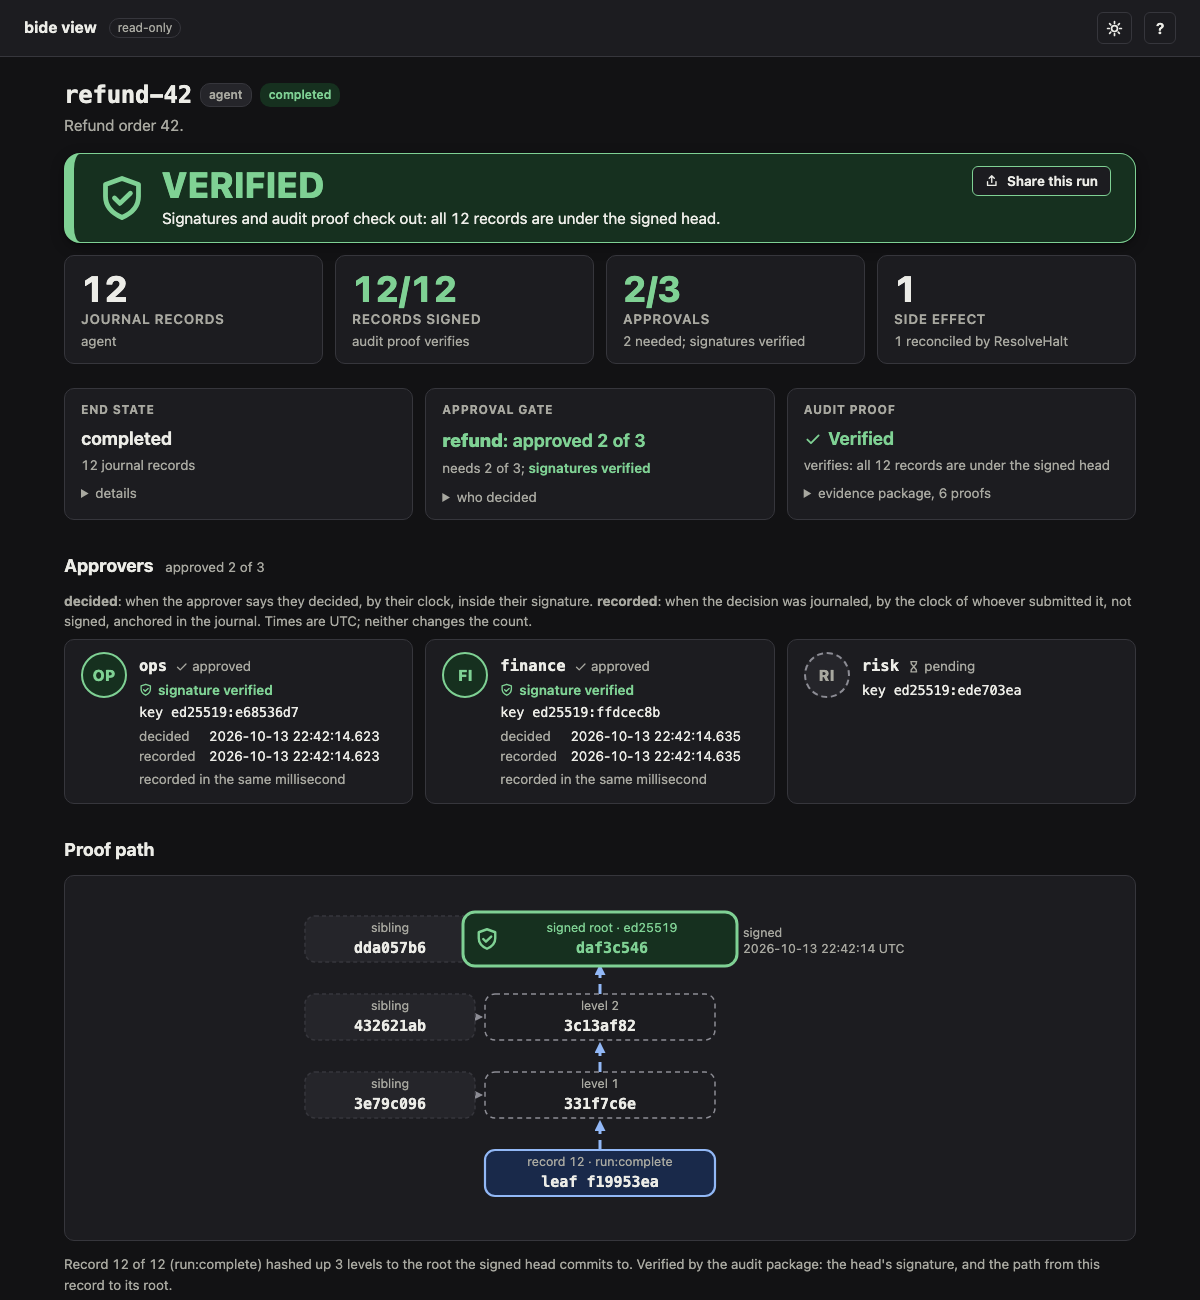
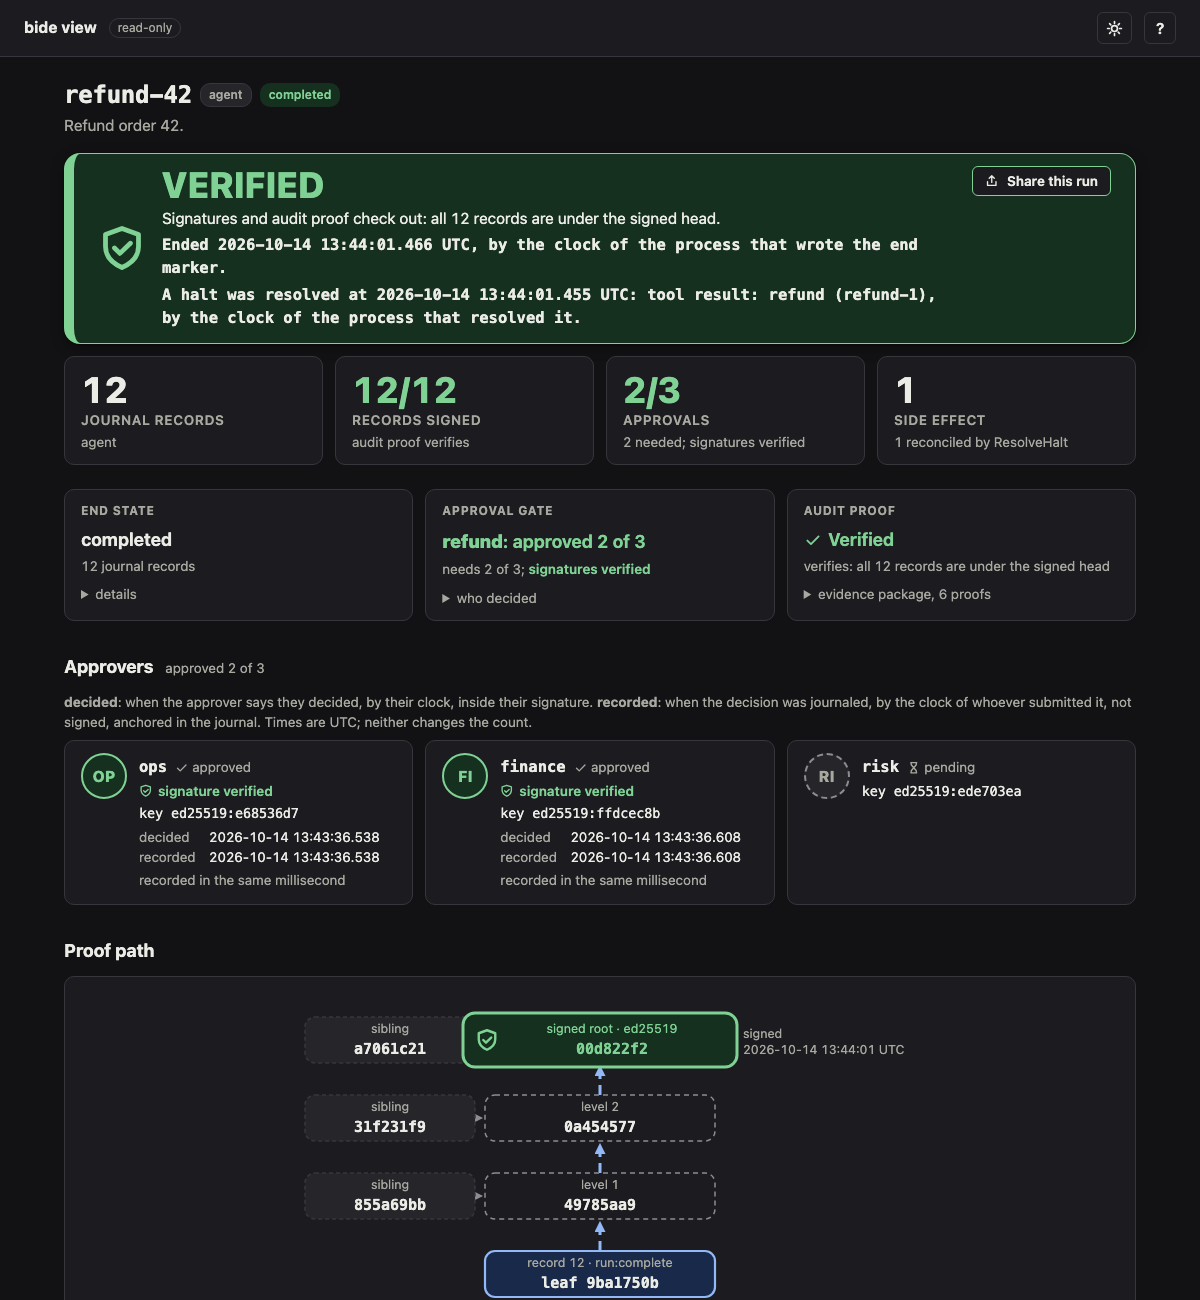
docs: shots-approval.sh retakes the approval run screenshots; timeline image; verdict shows end and resolution times

Changed region(s): [[0.0308, 0.1231, 0.9558, 1.0], [0.6783, 0.5846, 0.8325, 0.6154], [0.0617, 0.7077, 0.1233, 0.7385]]

diff --git a/internal/runview/assets/run.html b/internal/runview/assets/run.html
@@ -67,7 +67,7 @@
 
 {{if .Notes}}<section><h2>Not in the journal</h2><ul>{{range .Notes}}<li class="muted">{{.}}</li>{{end}}</ul></section>{{end}}
 
-<section><h2>Timeline <span class="count">{{len .Events}} records</span></h2>
+<section id="timeline"><h2>Timeline <span class="count">{{len .Events}} records</span></h2>
 <ol class="timeline">{{range .Events}}<li class="ev {{.Class}}" id="record-{{.Seq}}">
 <span class="ev-ic">{{icon .IconName}}</span>
 <div class="ev-main">

diff --git a/docs/guides/run-viewer.md b/docs/guides/run-viewer.md
@@ -411,6 +411,8 @@ markers and re-attempts, tool results with the `Safety` they ran under (read-onl
 effect) and whether `ResolveHalt` reconciled them (with the evidence), approval decisions, the
 approval-pending record and tally, plan nodes and Switch choices, and the end marker.
 
+![bide view's timeline for a refund run: the approvals, the attempt markers, the result ResolveHalt injected and the end marker each carry a time, as an offset from the run's start](img/run-viewer-timeline-dark.png)
+
 - Each row has an anchor, `#record-N`, with a link glyph on hover, so a record can be linked.
 - Each row's **payload** is the record as the journal holds it, indented, in a collapsed `details`
   with its JSON highlighted (a payload over 8 KiB is cut, and says how much); with JavaScript a
